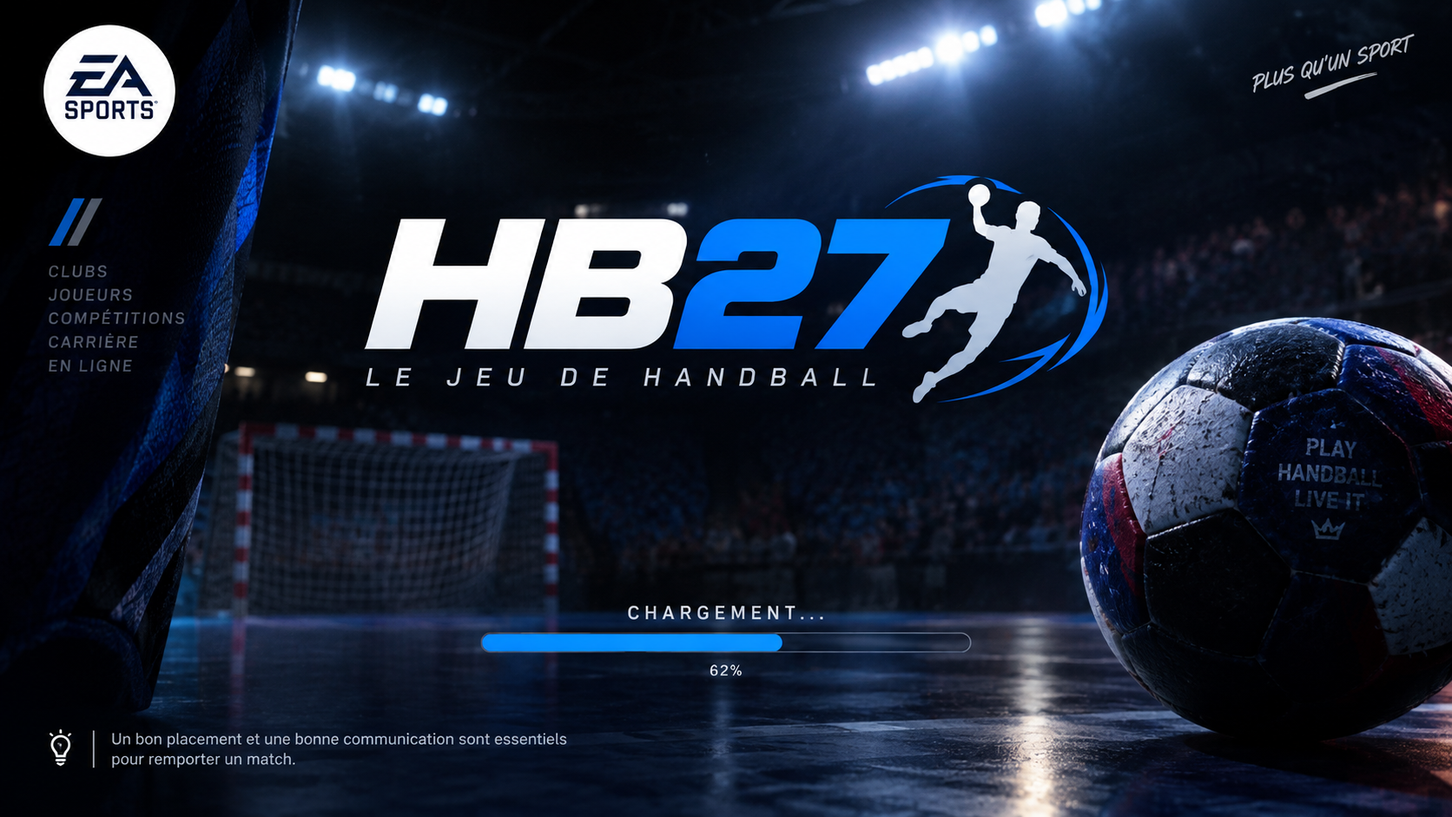
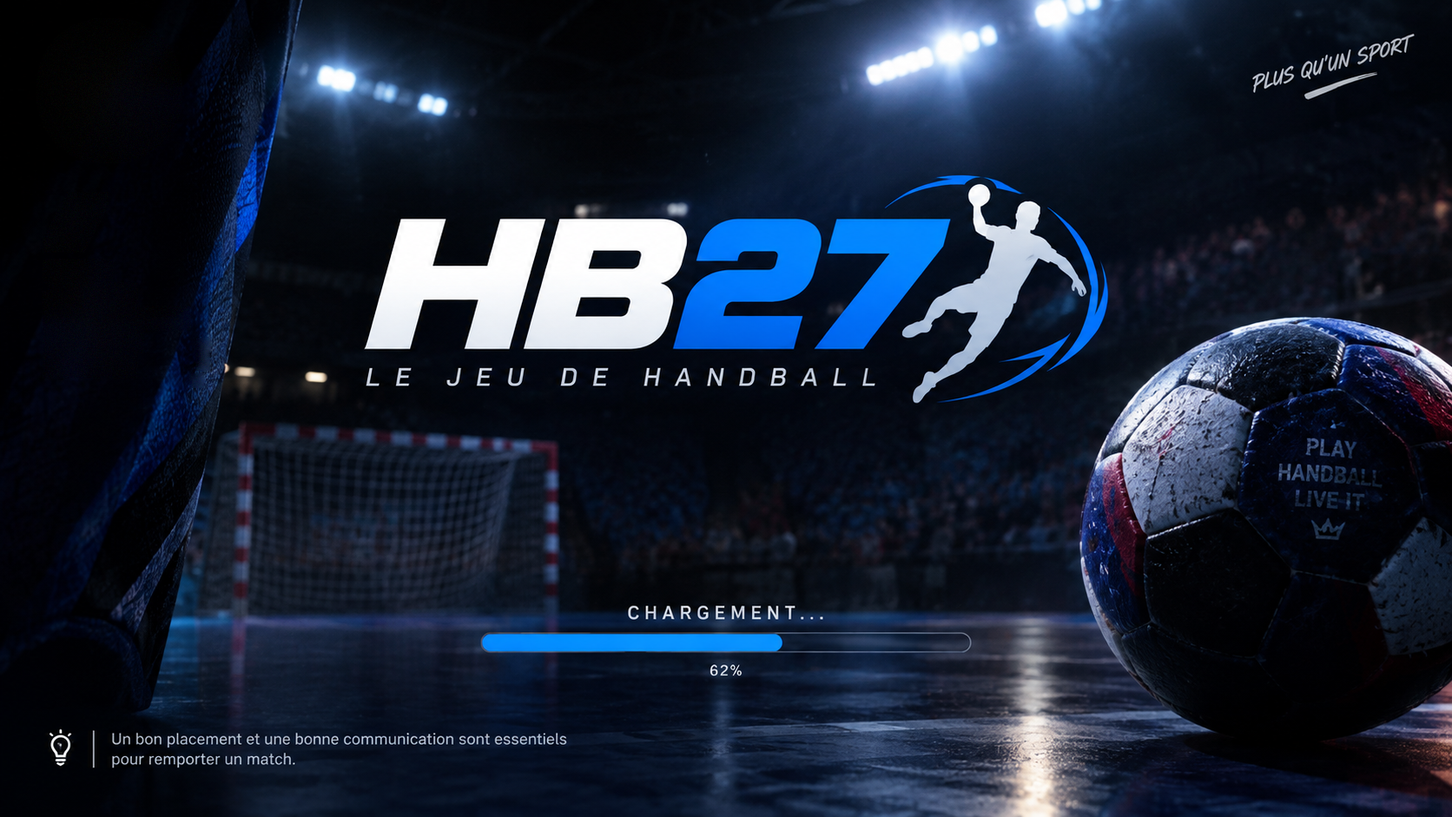
Add files via upload

Changed region(s): [[0.0311, 0.0308, 0.1244, 0.2157], [0.0311, 0.2465, 0.1244, 0.4623]]

diff --git a/index.html b/index.html
@@ -72,10 +72,33 @@ button:focus-visible{outline:3px solid var(--blue);outline-offset:3px}
 #rot{display:none;position:fixed;inset:0;z-index:9;background:var(--ink);align-items:center;justify-content:center;font-size:26px;text-align:center;padding:30px;font-weight:700}
 @media (orientation:portrait){#rot{display:flex}}
 @media (prefers-reduced-motion:reduce){#load{transition:none}}
+
+/* ajouts v2 */
+.scr{z-index:1}#load{background:var(--ink)}
+#mcv{position:fixed;inset:0;width:100%;height:100%;z-index:0;display:none}#mcv.dim{opacity:.4}
+#menu,#setup,#settings,#controls{background:none}
+#credit{position:fixed;left:14px;bottom:calc(5px + env(safe-area-inset-bottom,0px));z-index:9;font-size:clamp(11px,1.9vh,16px);letter-spacing:.14em;font-style:italic;font-weight:700;color:rgba(242,245,250,.7);pointer-events:none;text-shadow:0 1px 4px #000}
+.side .nv{text-align:left;letter-spacing:inherit;font-size:inherit;font-weight:700;color:var(--ice);border-left:4px solid transparent;padding:2px 0 2px 12px;margin-left:-16px;opacity:.8}
+.side .nv.cur{border-left-color:var(--blue);opacity:1}.side .nv:hover,.side .nv.pf{border-left-color:var(--blue);opacity:1;background:rgba(30,123,255,.15)}
+button.pf{outline:3px solid var(--blue);outline-offset:3px}
+#settings .set{flex-wrap:wrap;justify-content:center;gap:2.4vh 3vw}
+.cgrid{display:flex;gap:2vw;flex-wrap:wrap;justify-content:center;max-width:92vw}
+.cbox{border:2px solid rgba(142,160,189,.3);border-radius:8px;background:rgba(10,22,48,.75);padding:1.6vh 1.4vw;min-width:22vw;max-width:30vw;text-align:center;font-size:clamp(13px,2.3vh,20px);line-height:1.7}
+.cbox h3{font-style:italic;color:var(--blue);letter-spacing:.1em}
+.key{display:inline-block;min-width:2.1em;padding:.1em .45em;margin:2px;border:2px solid rgba(242,245,250,.5);border-radius:6px;font-weight:700;transition:background .08s}
+.key.on,.chips .on{background:var(--blue);border-color:#fff}
+.chips{display:flex;flex-wrap:wrap;gap:4px;justify-content:center}.chips span{padding:.05em .5em;border:1px solid rgba(142,160,189,.5);border-radius:4px;font-size:.85em}
+.note{color:var(--mute);font-size:clamp(12px,2vh,18px);text-align:center}
+#pause{display:none;position:absolute;inset:0;background:rgba(4,7,15,.85);flex-direction:column;align-items:center;justify-content:center;gap:1.6vh}
+#pause h2{font-size:clamp(40px,12vh,110px);font-style:italic;font-weight:800;line-height:1;margin-bottom:1vh}
+#pause button{padding:1.3vh 30px;min-width:22ch;border:2px solid var(--blue);border-radius:6px;font-size:clamp(18px,3.4vh,28px);font-weight:700;font-style:italic}
+#end button.pf{outline:3px solid var(--blue)}
 </style>
 </head>
 <body>
 <div id="rot">Tourne ton téléphone en mode paysage pour jouer à HB27.</div>
+<canvas id="mcv"></canvas>
+<div id="credit">by Moury Nolan</div>
 
 <section id="load" class="scr on">
   <div class="stage">
@@ -89,7 +112,7 @@ button:focus-visible{outline:3px solid var(--blue);outline-offset:3px}
 
 <section id="menu" class="scr">
   <div class="mrow">
-    <nav class="side"><b>COUP D'ENVOI</b><span>CLUBS</span><span>JOUEURS</span><span>COMPÉTITIONS</span><span>CARRIÈRE</span><span>EN LIGNE</span></nav>
+    <nav class="side"><button class="nv cur" id="nPlay">COUP D'ENVOI</button><button class="nv" id="nSet">RÉGLAGES</button><button class="nv" id="nCtl">COMMANDES</button><span>CLUBS</span><span>JOUEURS</span><span>COMPÉTITIONS</span><span>CARRIÈRE</span><span>EN LIGNE</span></nav>
     <div class="main">
       <div class="logo">HB<em>27</em></div>
       <div class="sub">LE JEU DE HANDBALL</div>
@@ -111,15 +134,34 @@ button:focus-visible{outline:3px solid var(--blue);outline-offset:3px}
   <div class="mini"><button id="sback">Retour</button><button class="go" id="sgo">JOUER</button></div>
 </div></section>
 
+<section id="settings" class="scr"><div class="srow">
+  <h2>RÉGLAGES</h2>
+  <div class="set"><div><label>Volume musique</label><div class="seg" id="svol"></div></div><div><label>Piste</label><div class="seg" id="strk"></div></div></div>
+  <div class="set"><div><label>Caméra</label><div class="seg" id="scam"></div></div><div><label>Bruitages</label><div class="seg" id="ssfx"></div></div><div><label>Aide touches en match</label><div class="seg" id="shint"></div></div></div>
+  <div class="mini"><button class="go" id="setBack" data-back>RETOUR</button></div>
+</div></section>
+
+<section id="controls" class="scr"><div class="srow">
+  <h2>COMMANDES</h2>
+  <div class="cgrid">
+    <div class="cbox"><h3>CLAVIER · JOUEUR 1</h3><div><span class="key" data-k="KeyW">W</span></div><div><span class="key" data-k="KeyA">A</span><span class="key" data-k="KeyS">S</span><span class="key" data-k="KeyD">D</span></div><div><span class="key" data-k="KeyF">F</span> passe · <span class="key" data-k="KeyG">G</span> tir · <span class="key" data-k="KeyE">E</span> changer</div></div>
+    <div class="cbox"><h3>CLAVIER · JOUEUR 2</h3><div><span class="key" data-k="ArrowUp">↑</span></div><div><span class="key" data-k="ArrowLeft">←</span><span class="key" data-k="ArrowDown">↓</span><span class="key" data-k="ArrowRight">→</span></div><div><span class="key" data-k="Comma">,</span> passe · <span class="key" data-k="Period">.</span> tir · <span class="key" data-k="Slash">/</span> changer</div></div>
+    <div class="cbox"><h3>MANETTE</h3><div>Stick / croix : bouger · A : passe · X ou RT : tir · B ou RB : changer · Start : pause</div><div class="chips" id="padchips"></div><div class="note" id="padname"></div></div>
+  </div>
+  <div class="note">Appuie sur une touche ou un bouton pour le voir s'allumer. En 1 joueur, tu peux aussi jouer avec les flèches. Sur téléphone : joystick + boutons PASSE / TIR / CHG. Pause : Échap ou P.</div>
+  <div class="mini"><button class="go" id="ctlBack" data-back>RETOUR</button></div>
+</div></section>
+
 <section id="game" class="scr">
   <canvas id="cv"></canvas>
-  <button id="quit">Menu</button>
+  <button id="quit">Pause</button>
   <div id="touch">
     <div id="joy"><div id="knob"></div></div>
     <button class="tb" id="bw">CHG</button>
     <button class="tb" id="bp">PASSE</button>
     <button class="tb" id="bs">TIR</button>
   </div>
+  <div id="pause"><h2>PAUSE</h2><button id="presume" data-back>Reprendre</button><button id="pset">Réglages</button><button id="pctl">Commandes</button><button id="pq">Menu principal</button></div>
   <div id="end"><h2 id="eh"></h2><p id="ep"></p><div class="row"><button id="again">Rejouer</button><button id="tomenu">Menu</button></div></div>
 </section>
 
@@ -129,6 +171,8 @@ const W=40,H=20,GH=1.5,HOME=[[1,10],[13,4.5],[15,10],[13,15.5]],AH=[[1,10],[28,4
 const COL=['#0a1f44','#c8102e'],NAME=['PARIS','CHAMBÉRY'],TR=['#d7263d','#f2f5fa'],GKC=['#f2c230','#34c38f'];
 let mode=1,state='menu',P=[],ball,score=[0,0],clock=240,gt=0,conc=0,banner='',ctl=[2,2];
 if('ontouchstart' in window||navigator.maxTouchPoints>0)document.body.classList.add('touch');
+const CFG=Object.assign({vol:2,trk:0,sfx:1,cam:1,hint:1},(()=>{try{return JSON.parse(localStorage.getItem('hb27')||'{}')}catch(e){return{}}})());
+const save=()=>{try{localStorage.setItem('hb27',JSON.stringify(CFG))}catch(e){}};
 
 /* ---------- chargement ---------- */
 (function(){
@@ -163,25 +207,31 @@ function applyTeams(){for(let t=0;t<2;t++){const T=TEAMS[sel[t]];COL[t]=T.col;TR
 $('sback').onclick=()=>show('menu');$('sgo').onclick=()=>start();
 
 /* ---------- musique & bruitages (synthétisés, sans fichier) ---------- */
-const MU={a:null,g:null,on:true,n:0,t:0,nb:null};
-const NOTE=m=>440*Math.pow(2,(m-69)/12),BASSL=[33,33,36,31],ARP=[57,60,64,67,64,60,69,67];
+const MU={a:null,g:null,on:true,n:0,t:0,nb:null,k:0};
+const VOLS=[0,.25,.5,.75,1],volG=()=>MU.on?VOLS[CFG.vol]*.4:0,applyVol=()=>{if(MU.g)MU.g.gain.value=volG()};
+const NOTE=m=>440*Math.pow(2,(m-69)/12);
+const TRK=[
+ {n:'Envoi',bpm:124,w:'sawtooth',ap:'square',bass:[33,33,36,31],arp:[57,60,64,67,64,60,69,67],k:'x...x...x...x...',s:'....x.......x...',h:'..x...x...x...x.'},
+ {n:'Remontada',bpm:138,w:'square',ap:'sawtooth',bass:[38,34,36,31],arp:[62,65,69,72,69,65,74,72],k:'x..xx..xx..xx.x.',s:'....x.......x..x',h:'x.x.x.x.x.x.x.x.'},
+ {n:'Dernier tir',bpm:100,w:'triangle',ap:'triangle',bass:[36,32,34,29],arp:[60,64,67,71,67,64,72,71],k:'x.....x...x.....',s:'....x.......x...',h:'x.x.x.x.x.x.x.xx'},
+ {n:'Tribune',bpm:150,w:'sawtooth',ap:'square',bass:[31,36,33,38],arp:[55,59,62,67,62,59,64,62],k:'x...x...x...x..x',s:'....x.......x...',h:'xxxxxxxxxxxxxxxx'}];
 function musicStart(){if(MU.a){if(MU.a.state==='suspended')MU.a.resume();return}
-  try{const A=MU.a=new(window.AudioContext||window.webkitAudioContext)();MU.g=A.createGain();MU.g.gain.value=MU.on?.2:0;MU.g.connect(A.destination);MU.t=A.currentTime+.1;
+  try{const A=MU.a=new(window.AudioContext||window.webkitAudioContext)();MU.g=A.createGain();MU.g.gain.value=volG();MU.g.connect(A.destination);MU.t=A.currentTime+.1;
     const b=A.createBuffer(1,A.sampleRate*.5,A.sampleRate),d=b.getChannelData(0);for(let i=0;i<d.length;i++)d[i]=Math.random()*2-1;MU.nb=b;setInterval(musicTick,40)}catch(e){}}
 function tone(f,t,l,ty,v,f2){const A=MU.a,o=A.createOscillator(),g=A.createGain();o.type=ty;o.frequency.setValueAtTime(f,t);if(f2)o.frequency.exponentialRampToValueAtTime(f2,t+l);g.gain.setValueAtTime(v,t);g.gain.exponentialRampToValueAtTime(.001,t+l);o.connect(g);g.connect(MU.g);o.start(t);o.stop(t+l+.02)}
 function noise(t,l,v,hp){const A=MU.a,s=A.createBufferSource(),f=A.createBiquadFilter(),g=A.createGain();s.buffer=MU.nb;f.type='highpass';f.frequency.value=hp;g.gain.setValueAtTime(v,t);g.gain.exponentialRampToValueAtTime(.001,t+l);s.connect(f);f.connect(g);g.connect(MU.g);s.start(t);s.stop(t+l)}
-function musicTick(){const A=MU.a;if(!A||A.state!=='running')return;const sd=60/124/4;
+function musicTick(){const A=MU.a;if(!A||A.state!=='running')return;if(CFG.trk)MU.k=CFG.trk-1;const T=TRK[MU.k],sd=60/T.bpm/4;
   while(MU.t<A.currentTime+.2){const s=MU.n%16,bar=Math.floor(MU.n/16)%4,t=MU.t;
-    if(s%4==0)tone(150,t,.18,'sine',.9,40);
-    if(s%4==2)noise(t,.05,.22,7000);
-    if(s==4||s==12)noise(t,.14,.4,1500);
-    if(s%2==0)tone(NOTE(BASSL[bar]+12),t,sd*1.8,'sawtooth',.16);
-    tone(NOTE(ARP[(s+bar*2)%8]),t,sd*.9,'square',.04);
-    MU.t+=sd;MU.n++}}
-function sfx(k){if(!MU.a||MU.a.state!=='running')return;const t=MU.a.currentTime;
+    if(T.k[s]==='x')tone(150,t,.18,'sine',.9,40);
+    if(T.s[s]==='x')noise(t,.14,.4,1500);
+    if(T.h[s]==='x')noise(t,.05,.2,7000);
+    if(s%2==0)tone(NOTE(T.bass[bar]+12),t,sd*1.8,T.w,.16);
+    tone(NOTE(T.arp[(s+bar*2)%8]),t,sd*.9,T.ap,.04);
+    MU.t+=sd;MU.n++;if(!CFG.trk&&MU.n>=128){MU.n=0;MU.k=(MU.k+1)%TRK.length}}}
+function sfx(k){if(!CFG.sfx||!MU.a||MU.a.state!=='running')return;const t=MU.a.currentTime;
   if(k==='whistle'){tone(2600,t,.25,'sine',.4);tone(2600,t+.3,.45,'sine',.4)}
   if(k==='goal'){[60,64,67,72].forEach((m,i)=>tone(NOTE(m),t+i*.09,.7,'triangle',.3));noise(t,.9,.2,3000)}}
-function toggleMute(){MU.on=!MU.on;if(MU.g)MU.g.gain.value=MU.on?.2:0;$('mute').style.opacity=MU.on?1:.4}
+function toggleMute(){MU.on=!MU.on;applyVol();$('mute').style.opacity=MU.on?1:.4}
 $('mute').onclick=toggleMute;
 addEventListener('pointerdown',musicStart);addEventListener('keydown',e=>{musicStart();if(e.code==='KeyM')toggleMute()});
 
@@ -190,10 +240,11 @@ document.querySelectorAll('.opt').forEach(b=>b.onclick=()=>{mode=+b.dataset.m;do
 $('play').onclick=()=>{renderSetup();show('setup')};
 $('fs').onclick=toggleFs;
 function toggleFs(){if(document.fullscreenElement)document.exitFullscreen();else{(document.documentElement.requestFullscreen||document.documentElement.webkitRequestFullscreen).call(document.documentElement);try{screen.orientation.lock('landscape').catch(()=>{})}catch(e){}}}
-function updPads(){const n=[...navigator.getGamepads()].filter(Boolean).length;$('pads').textContent=n?n+' manette'+(n>1?'s':'')+' détectée'+(n>1?'s':''):'Aucune manette détectée'}
+function updPads(){const n=gps().length;$('pads').textContent=n?n+' manette'+(n>1?'s':'')+' détectée'+(n>1?'s':''):'Aucune manette détectée'}
 addEventListener('gamepadconnected',updPads);addEventListener('gamepaddisconnected',updPads);
-$('quit').onclick=()=>{state='menu';show('menu')};
-$('tomenu').onclick=$('quit').onclick;$('again').onclick=()=>start();
+const toMenu=()=>{$('pause').style.display='none';$('end').style.display='none';state='menu';show('menu')};
+$('quit').onclick=togglePause;$('presume').onclick=togglePause;$('tomenu').onclick=toMenu;$('pq').onclick=toMenu;$('again').onclick=()=>start();
+$('pset').onclick=()=>openSet('pause');$('pctl').onclick=()=>openCtl('pause');$('nPlay').onclick=()=>$('play').click();$('nSet').onclick=()=>openSet('menu');$('nCtl').onclick=()=>openCtl('menu');
 
 /* ---------- entrées ---------- */
 const K={},B=[{p:0,s:0,w:0},{p:0,s:0,w:0}],PP=[[],[]],joy={x:0,y:0,on:false};
@@ -202,11 +253,17 @@ const human=t=>mode==2||t==0;
 addEventListener('keydown',e=>{if(state!=='play'&&state!=='goal')return;e.preventDefault();if(K[e.code])return;K[e.code]=1;
   for(let t=0;t<2;t++)for(const k of(mode==1&&t==0?KS:[KS[t]]))for(const a of'psw')if(k[a]===e.code&&human(t))B[t][a]=1});
 addEventListener('keyup',e=>K[e.code]=0);
-function padOf(t){if(mode==1&&t==1)return null;return[...navigator.getGamepads()].filter(Boolean)[t]||null}
-function pollPads(){for(let t=0;t<2;t++){const g=padOf(t);if(!g)continue;const b=g.buttons.map(x=>x.pressed),r=PP[t];
-  if(b[0]&&!r[0])B[t].p=1;if((b[2]||b[7])&&!(r[2]||r[7]))B[t].s=1;if((b[1]||b[5])&&!(r[1]||r[5]))B[t].w=1;PP[t]=b}}
+const gps=()=>[...(navigator.getGamepads?navigator.getGamepads():[])].filter(g=>g&&g.connected&&g.buttons.length>=4&&g.axes.length>=2);
+const pb=(g,i)=>!!(g.buttons[i]&&(g.buttons[i].pressed||g.buttons[i].value>.5));
+function stick(g){let x=g.axes[0]||0,y=g.axes[1]||0;if(Math.abs(x)<.22)x=0;if(Math.abs(y)<.22)y=0;
+  if(pb(g,12))y-=1;if(pb(g,13))y+=1;if(pb(g,14))x-=1;if(pb(g,15))x+=1;
+  if(g.axes.length>9&&g.axes[9]<1.5){const v=g.axes[9];if(Math.abs(v+1)<.1)y-=1;else if(Math.abs(v+.43)<.1)x+=1;else if(Math.abs(v-.14)<.1)y+=1;else if(Math.abs(v-.71)<.1)x-=1}
+  return[cl(x,-1,1),cl(y,-1,1)]}
+function padOf(t){if(mode==1&&t==1)return null;return gps()[t]||null}
+function pollPads(){for(let t=0;t<2;t++){const g=padOf(t);if(!g)continue;const b=g.buttons.map((_,i)=>pb(g,i)),r=PP[t];
+  if(b[0]&&!r[0])B[t].p=1;if((b[2]||b[7])&&!(r[2]||r[7]))B[t].s=1;if((b[1]||b[4]||b[5])&&!(r[1]||r[4]||r[5]))B[t].w=1;PP[t]=b}}
 function axis(t){let x=0,y=0;for(const k of(mode==1&&t==0?KS:[KS[t]])){x+=(K[k.r]?1:0)-(K[k.l]?1:0);y+=(K[k.d]?1:0)-(K[k.u]?1:0)}
-  const g=padOf(t);if(g&&Math.hypot(g.axes[0],g.axes[1])>.2){x+=g.axes[0];y+=g.axes[1]}
+  const g=padOf(t);if(g){const q=stick(g);x+=q[0];y+=q[1]}
   if(t==0&&joy.on){x+=joy.x;y+=joy.y}
   if(flip)x=-x;const m=Math.hypot(x,y);return m>1?[x/m,y/m]:[x,y]}
 (function(){const j=$('joy'),kn=$('knob');let id=null;
@@ -219,7 +276,7 @@ function axis(t){let x=0,y=0;for(const k of(mode==1&&t==0?KS:[KS[t]])){x+=(K[k.r
 })();
 
 /* ---------- partie ---------- */
-function start(){applyTeams();score=[0,0];clock=dur*60;total=clock;flip=false;half2=false;setTimeout(()=>sfx('whistle'),250);reset(0);state='play';banner='';$('end').style.display='none';show('game');state='play';fit()}
+function start(){$('pause').style.display='none';applyTeams();score=[0,0];clock=dur*60;total=clock;flip=false;half2=false;setTimeout(()=>sfx('whistle'),250);reset(0);state='play';banner='';$('end').style.display='none';show('game');state='play';fit()}
 function reset(k){
   P=[];for(let t=0;t<2;t++)HOME.forEach((h,i)=>{const x=t?W-h[0]:h[0];P.push({t,i,x,y:h[1],hx:x,hy:h[1],fx:t?-1:1,fy:0,cd:0,hold:0,ph:0,jt:0,z:0,spd:0})});
   const c=P[k*4+2];c.x=W/2+(k?.8:-.8);c.y=H/2;ball={x:c.x,y:c.y,vx:0,vy:0,own:c,from:k,rolled:false,z:1.15,vz:0,g:7,rot:0};ctl=[2,2];
@@ -305,13 +362,15 @@ function finish(){state='end';const a=score[0],b=score[1];
 
 /* ---------- rendu 2.5D ---------- */
 const cv=$('cv'),ctx=cv.getContext('2d');let S=1,Hh=1,y0=1,cw=1,ch=1,lw=2;
-const FAR=.72,SKIN=['#f1c8a0','#d9a27a','#a8714a','#7a4b2e'],CC=['#1e7bff','#f2f5fa','#d7263d','#8ea0bd','#13244a'];
+const SKIN=['#f1c8a0','#d9a27a','#a8714a','#7a4b2e'],CC=['#1e7bff','#f2f5fa','#d7263d','#8ea0bd','#13244a'];
 const FONT='"Barlow Condensed",Impact,"Arial Narrow",sans-serif';
 const crowd=Array.from({length:650},(_,i)=>({x:Math.random(),r:Math.floor(i/130),c:CC[Math.floor(Math.random()*5)],ph:Math.random()*6}));
 const conf=Array.from({length:110},()=>({x:rnd(.05,.95),y:rnd(-.15,0),vx:rnd(-.08,.08),vy:rnd(.15,.4),c:CC[Math.floor(Math.random()*5)],s:rnd(.006,.014)}));
-function fit(){const d=Math.min(devicePixelRatio||1,2);cv.width=innerWidth*d;cv.height=innerHeight*d;cw=cv.width;ch=cv.height;Hh=ch*.48;y0=ch*.3;S=cw*.9/W;lw=Math.max(1.5,cw*.0022)}
+const CAMS=[{n:'Classique',far:.72,y:.3,h:.48,s:.9},{n:'Tribune',far:.5,y:.26,h:.53,s:.95},{n:'3D immersive',far:.38,y:.23,h:.6,s:1.5,f:1}];
+let FAR=.72,camx=W/2,camF=0;
+function fit(){const d=Math.min(devicePixelRatio||1,2),c=CAMS[CFG.cam]||CAMS[0];cv.width=innerWidth*d;cv.height=innerHeight*d;cw=cv.width;ch=cv.height;FAR=c.far;camF=c.f||0;Hh=ch*c.h;y0=ch*c.y;S=cw*c.s/W;lw=Math.max(1.5,cw*.0022)}
 addEventListener('resize',fit);
-const pj=(x,y,z=0)=>{const t=y/H,s=FAR+(1-FAR)*t;return[cw/2+(flip?-1:1)*(x-W/2)*S*s,y0+Hh*t-z*S*s*.9,S*s]};
+const pj=(x,y,z=0)=>{const t=y/H,s=FAR+(1-FAR)*t;return[cw/2+(flip?-1:1)*(x-camx)*S*s,y0+Hh*t-z*S*s*.9,S*s]};
 function poly(pts,fill,stroke,w){ctx.beginPath();pts.forEach((q,i)=>{const a=pj(q[0],q[1],q[2]||0);i?ctx.lineTo(a[0],a[1]):ctx.moveTo(a[0],a[1])});if(fill){ctx.fillStyle=fill;ctx.fill()}if(stroke){ctx.strokeStyle=stroke;ctx.lineWidth=w;ctx.stroke()}}
 const arcPts=(cx,r,a0,a1)=>Array.from({length:41},(_,i)=>{const a=a0+(a1-a0)*i/40;return[cx+Math.cos(a)*r,H/2+Math.sin(a)*r]});
 const limb=(a,b,c,col,wd)=>{ctx.strokeStyle=col;ctx.lineWidth=wd;ctx.beginPath();ctx.moveTo(a[0],a[1]);ctx.lineTo(b[0],b[1]);ctx.lineTo(c[0],c[1]);ctx.stroke()};
@@ -353,7 +412,8 @@ function drawBall(){
   ctx.strokeStyle='#04070f';ctx.lineWidth=r*.1;ctx.beginPath();ctx.arc(X,Y,r,0,7);ctx.stroke();
 }
 function draw(now){
-  const w=cw,h=ch,T=now/1000;ctx.setTransform(1,0,0,1,0,0);ctx.globalAlpha=1;
+  const w=cw,h=ch,T=now/1000,dc=Math.min(.05,(now-(draw.l||now))/1000);draw.l=now;ctx.setTransform(1,0,0,1,0,0);ctx.globalAlpha=1;
+  camx=camF?camx+(cl(ball.x,W*.17,W*.83)-camx)*Math.min(1,dc*3):W/2;
   let g=ctx.createLinearGradient(0,0,0,h);g.addColorStop(0,'#02040a');g.addColorStop(.35,'#0a1630');g.addColorStop(1,'#050a18');ctx.fillStyle=g;ctx.fillRect(0,0,w,h);
   for(const f of[.15,.38,.62,.85]){const r=ctx.createRadialGradient(w*f,0,0,w*f,0,h*.6);r.addColorStop(0,'rgba(140,190,255,.32)');r.addColorStop(1,'rgba(140,190,255,0)');ctx.fillStyle=r;ctx.fillRect(0,0,w,h)}
   const gl=state==='goal';
@@ -386,6 +446,9 @@ function draw(now){
   ctx.fillStyle='#f2f5fa';ctx.textBaseline='middle';ctx.textAlign='center';ctx.font=`italic 800 ${5*u}px ${FONT}`;ctx.fillText(score[0]+'  –  '+score[1],cx,ty+4.4*u);
   ctx.font=`700 ${2.8*u}px ${FONT}`;ctx.textAlign='right';ctx.fillText(NAME[0],cx-9.5*u,ty+4.4*u);ctx.textAlign='left';ctx.fillText(NAME[1],cx+9.5*u,ty+4.4*u);
   const m=Math.floor(clock/60),s=Math.floor(clock%60);ctx.textAlign='center';ctx.fillStyle='#8ea0bd';ctx.font=`500 ${2.6*u}px ${FONT}`;ctx.fillText(m+':'+String(s).padStart(2,'0'),cx,ty+11.2*u);
+  if(CFG.hint&&state!=='half'&&!document.body.classList.contains('touch')){ctx.font=`500 ${2.4*u}px ${FONT}`;ctx.textBaseline='middle';ctx.textAlign='center';ctx.fillStyle='rgba(242,245,250,.8)';
+    const hn=t=>padOf(t)?'A passe · X tir · B changer · Start pause':t?', passe · . tir · / changer':kn('KeyF')+' passe · '+kn('KeyG')+' tir · '+kn('KeyE')+' changer · P pause';
+    if(mode==2){ctx.fillText(hn(0),cx-cw*.2,h*.97);ctx.fillText(hn(1),cx+cw*.2,h*.97)}else ctx.fillText(hn(0),cx,h*.97)}
   if(gl){const t=2.2-gt;
     for(const c of conf){ctx.fillStyle=c.c;ctx.fillRect((c.x+c.vx*t)*w,(c.y+c.vy*t+.15*t*t)*h,c.s*h,c.s*h*1.6)}
     if(t<.25){ctx.fillStyle=`rgba(255,255,255,${(1-t/.25)*.3})`;ctx.fillRect(0,0,w,h)}
@@ -394,10 +457,79 @@ function draw(now){
     ctx.font=`italic 700 ${6*u*sc}px ${FONT}`;ctx.fillStyle=col;ctx.strokeText(NAME[conc?0:1],cx,h*.55);ctx.fillText(NAME[conc?0:1],cx,h*.55)}
   if(state==='half'){ctx.fillStyle='rgba(4,7,15,.72)';ctx.fillRect(0,0,w,h);ctx.fillStyle='#f2f5fa';ctx.textAlign='center';ctx.textBaseline='middle';ctx.font=`italic 800 ${14*u}px ${FONT}`;ctx.fillText('MI-TEMPS',cx,h*.38);ctx.font=`italic 800 ${8*u}px ${FONT}`;ctx.fillText(NAME[0]+'  '+score[0]+' – '+score[1]+'  '+NAME[1],cx,h*.54);ctx.font=`500 ${3*u}px ${FONT}`;ctx.fillStyle='#8ea0bd';ctx.fillText('Changement de côté',cx,h*.66)}
 }
+/* ---------- réglages, commandes, navigation manette/clavier ---------- */
+const KL={},kn=c=>KL[c]||c.replace('Key','');
+if(navigator.keyboard&&navigator.keyboard.getLayoutMap)navigator.keyboard.getLayoutMap().then(m=>{m.forEach((v,k)=>KL[k]=v.toUpperCase());document.querySelectorAll('.key[data-k]').forEach(k=>{const v=KL[k.dataset.k];if(v)k.textContent=v})}).catch(()=>{});
+let backTo='menu';
+function renderSettings(){
+  seg('svol',['0','25','50','75','100'].map(x=>x+'%'),()=>CFG.vol,i=>{CFG.vol=i;applyVol();save()});
+  seg('strk',['Auto',...TRK.map(t=>t.n)],()=>CFG.trk,i=>{CFG.trk=i;MU.n=0;if(i)MU.k=i-1;save()});
+  seg('scam',CAMS.map(c=>c.n),()=>CFG.cam,i=>{CFG.cam=i;fit();save()});
+  seg('ssfx',['Oui','Non'],()=>CFG.sfx?0:1,i=>{CFG.sfx=i?0:1;save()});
+  seg('shint',['Oui','Non'],()=>CFG.hint?0:1,i=>{CFG.hint=i?0:1;save()})}
+const PADN=['A','B','X','Y','LB','RB','LT','RT','Sél.','Start','L3','R3','↑','↓','←','→'];
+function openSet(f){backTo=f;renderSettings();show('settings')}
+function openCtl(f){backTo=f;$('padchips').innerHTML=PADN.map(n=>'<span>'+n+'</span>').join('');$('padname').textContent='Aucune manette détectée — appuie sur un bouton';show('controls')}
+function backSub(){if(backTo==='pause'){show('game');state='pause'}else show('menu')}
+$('setBack').onclick=$('ctlBack').onclick=backSub;
+function togglePause(){if(state==='play'){state='pause';$('pause').style.display='flex'}else if(state==='pause'){state='play';$('pause').style.display='none'}}
+const navOK=()=>state!=='play'&&state!=='goal'&&state!=='half'&&!$('load').classList.contains('on');
+const cont=()=>state==='pause'?$('pause'):state==='end'?$('end'):document.querySelector('.scr.on');
+const btns=()=>{const c=cont();return c?[...c.querySelectorAll('button')].filter(b=>b.offsetParent!==null):[]};
+function focusPf(b){document.querySelectorAll('.pf').forEach(x=>x.classList.remove('pf'));b.classList.add('pf');b.focus()}
+function navMove(d){const b=btns();if(!b.length)return;let i=b.indexOf(document.activeElement);i=i<0?0:cl(i+(d==='u'||d==='l'?-1:1),0,b.length-1);focusPf(b[i])}
+function navClick(){const b=btns();let i=b.indexOf(document.activeElement);if(i<0)i=0;if(!b[i])return;b[i].click();setTimeout(()=>{const n=btns();if(n[i])focusPf(n[i])},30)}
+function navBack(){const c=cont(),b=c&&c.querySelector('[data-back]');if(b)b.click()}
+const pe={};let navt=0;
+function padMenu(dt){const L=gps(),g=L[0];if(L.length!==pe.cnt){pe.cnt=L.length;updPads()}if(!g)return;
+  const b=g.buttons.map((_,i)=>pb(g,i)),q=stick(g),e=(k,v)=>{const r=v&&!pe[k];pe[k]=v;return r};
+  if(state==='controls'){[...$('padchips').children].forEach((c,i)=>c.classList.toggle('on',!!b[i]));$('padname').textContent=g.id.slice(0,70)}
+  if((state==='play'||state==='pause')&&e('st',b[9]))togglePause();
+  if(!navOK())return;
+  const dir=q[1]<-.5?'u':q[1]>.5?'d':q[0]<-.5?'l':q[0]>.5?'r':'';
+  navt-=dt;if(dir&&(dir!==pe.d||navt<=0)){navMove(dir);navt=pe.d===dir?.18:.4}if(!dir)navt=0;pe.d=dir;
+  if(e('a',b[0]))navClick();if(e('b',b[1]))navBack()}
+addEventListener('keydown',e=>{
+  if(state==='controls'){const k=document.querySelector(`.key[data-k="${e.code}"]`);if(k){k.classList.add('on');e.preventDefault()}}
+  if((e.code==='Escape'||e.code==='KeyP')&&(state==='play'||state==='pause')){togglePause();return}
+  if(navOK()){const m={ArrowUp:'u',ArrowLeft:'l',ArrowDown:'d',ArrowRight:'r'}[e.code];if(m&&state!=='controls'){navMove(m);e.preventDefault()}if(e.code==='Escape')navBack()}});
+addEventListener('keyup',e=>document.querySelectorAll('.key.on').forEach(k=>{if(k.dataset.k===e.code)k.classList.remove('on')}));
+
+/* ---------- animation des menus : joueurs qui dribblent, sautent, tirent ---------- */
+const mc=$('mcv'),mx=mc.getContext('2d');
+function mfit(){const d=Math.min(devicePixelRatio||1,2);mc.width=innerWidth*d;mc.height=innerHeight*d}addEventListener('resize',mfit);mfit();
+const ML=(a,b,c,col,w)=>{mx.strokeStyle=col;mx.lineWidth=w;mx.beginPath();mx.moveTo(a[0],a[1]);mx.lineTo(b[0],b[1]);mx.lineTo(c[0],c[1]);mx.stroke()};
+function fig(x,gy,u,jc,o){const zz=o.z||0,tk=o.tuck||0,sw=o.sw||0,d=o.d||1,Y=gy-zz*u,hip=[x,Y-u],sh=[x+d*u*.06,Y-u*1.65],sk='#d9a27a';
+  mx.lineCap='round';mx.lineJoin='round';mx.fillStyle='rgba(0,0,0,.4)';mx.beginPath();mx.ellipse(x,gy,u*.5*(1-zz*.3),u*.14,0,0,7);mx.fill();
+  const leg=s=>{const lf=Math.max(0,s)*u*.3+tk*u*.4,f=[x+d*s*u*.45,Y-lf-u*.03],k=[x+d*(s*.2+.12+tk*.3)*u,Y-u*.55-lf*.5];
+    ML(hip,k,f,sk,u*.14);ML(hip,[(hip[0]+k[0])/2,(hip[1]+k[1])/2],k,'#0a1630',u*.22);mx.fillStyle='#f2f5fa';mx.beginPath();mx.ellipse(f[0]+d*u*.06,f[1],u*.13,u*.05,0,0,7);mx.fill()};
+  leg(-sw);leg(sw);
+  mx.fillStyle=jc;mx.beginPath();mx.moveTo(sh[0]-u*.27,sh[1]);mx.lineTo(sh[0]+u*.27,sh[1]);mx.lineTo(hip[0]+u*.2,hip[1]+u*.06);mx.lineTo(hip[0]-u*.2,hip[1]+u*.06);mx.fill();
+  const hs=[];for(const a of[o.a1,o.a2]){const h=[sh[0]+d*a[0]*u,sh[1]+a[1]*u],e=[(sh[0]+h[0])/2-d*u*.03,(sh[1]+h[1])/2+u*.1];ML(sh,e,h,sk,u*.12);ML(sh,[(sh[0]+e[0])/2,(sh[1]+e[1])/2],e,jc,u*.15);hs.push(h)}
+  const hx=sh[0]+d*u*.03,hy=sh[1]-u*.27;mx.fillStyle=sk;mx.beginPath();mx.arc(hx,hy,u*.17,0,7);mx.fill();mx.fillStyle='#1a1410';mx.beginPath();mx.arc(hx-d*u*.01,hy-u*.02,u*.175,Math.PI*1.05,Math.PI*1.95);mx.fill();
+  return hs[1]}
+function mball(x,y,r,al){mx.globalAlpha=al==null?1:al;const g=mx.createRadialGradient(x-r*.3,y-r*.3,r*.1,x,y,r);g.addColorStop(0,'#fff');g.addColorStop(1,'#b9c4d8');mx.fillStyle=g;mx.beginPath();mx.arc(x,y,r,0,7);mx.fill();
+  mx.strokeStyle='#1e4fc2';mx.lineWidth=r*.28;mx.beginPath();mx.arc(x,y,r*.6,0,1.7);mx.stroke();mx.strokeStyle='#04070f';mx.lineWidth=r*.1;mx.beginPath();mx.arc(x,y,r,0,7);mx.stroke();mx.globalAlpha=1}
+function mdraw(now){const T=now/1000,w=mc.width,h=mc.height,u=h*.125,gy=h*.85;mx.setTransform(1,0,0,1,0,0);
+  let g=mx.createRadialGradient(w*.7,h*.3,0,w*.7,h*.3,w*.8);g.addColorStop(0,'#12306a');g.addColorStop(.45,'#0a1630');g.addColorStop(1,'#04070f');mx.fillStyle=g;mx.fillRect(0,0,w,h);
+  for(const f of[.45,.75,.95]){const r=mx.createRadialGradient(w*f,0,0,w*f,0,h*.7);r.addColorStop(0,'rgba(140,190,255,.25)');r.addColorStop(1,'rgba(140,190,255,0)');mx.fillStyle=r;mx.fillRect(0,0,w,h)}
+  const fl=mx.createLinearGradient(0,h*.78,0,h);fl.addColorStop(0,'#123a78');fl.addColorStop(1,'#0b2350');mx.fillStyle=fl;mx.fillRect(0,h*.78,w,h*.22);mx.fillStyle='rgba(242,245,250,.25)';mx.fillRect(0,h*.78,w,Math.max(2,h*.004));
+  {const x=w*.755+Math.sin(T*.8)*w*.012,sw=Math.sin(T*9)*.9,b=.15+.75*Math.abs(Math.cos(T*4.5));
+   fig(x,gy,u,'#d7263d',{sw,z:Math.abs(Math.sin(T*9))*.04,a1:[-sw*.3,.55],a2:[.5,Math.max(.45,1.4-b)]});mball(x+u*.55,gy-u*b,u*.22)}
+  {const x=w*.855,q=(T%2.4)/2.4,o={sw:0,z:0,tuck:0,a1:[.3,.4],a2:[.4,.3]};
+   if(q<.35||q>=.62)o.sw=Math.sin(T*10)*.7;else{const r=(q-.35)/.27,s=Math.sin(r*Math.PI);o.z=s*1.1;o.tuck=s*.7;o.a1=[.35,-.1];o.a2=[.3+.1*r,.3-Math.min(1,r*1.5)]}
+   const hd=fig(x,gy,u,'#1e7bff',o),rx=x+.43*u,ry=gy-3.15*u,tx=w*.955-u*.3,ty=gy-u*1.5;
+   if(q<.55)mball(hd[0],hd[1]+u*.05,u*.22);
+   else if(q<.85){const f=(q-.55)/.3;mball(rx+(tx-rx)*f,ry+(ty-ry)*f-Math.sin(f*Math.PI)*u*.3,u*.22)}
+   else if(q>.9)mball(hd[0],hd[1]+u*.05,u*.22,(q-.9)/.1)}
+  {const x=w*.955+Math.sin(T*2.1)*u*.4;fig(x,gy,u,'#f2c230',{d:-1,sw:Math.sin(T*4.2)*.3,z:Math.abs(Math.sin(T*4.2))*.1,a1:[-.35,-.6],a2:[.5,-.5]})}}
+
 let last=performance.now();
-(function loop(now){const dt=Math.min(.05,(now-last)/1000);last=now;
+(function loop(now){const dt=Math.min(.05,(now-last)/1000);last=now;padMenu(dt);
   if(state==='play'||state==='goal'||state==='half')update(dt);
-  if(state==='play'||state==='goal'||state==='half'||state==='end')draw(now);
+  if(state==='play'||state==='goal'||state==='half'||state==='end'||state==='pause')draw(now);
+  const mo=!$('load').classList.contains('on')&&['menu','setup','settings','controls'].includes(state);
+  mc.style.display=mo?'block':'none';if(mo){mc.classList.toggle('dim',state!=='menu');mdraw(now)}
   requestAnimationFrame(loop)})(last);
 </script>
 </body>
